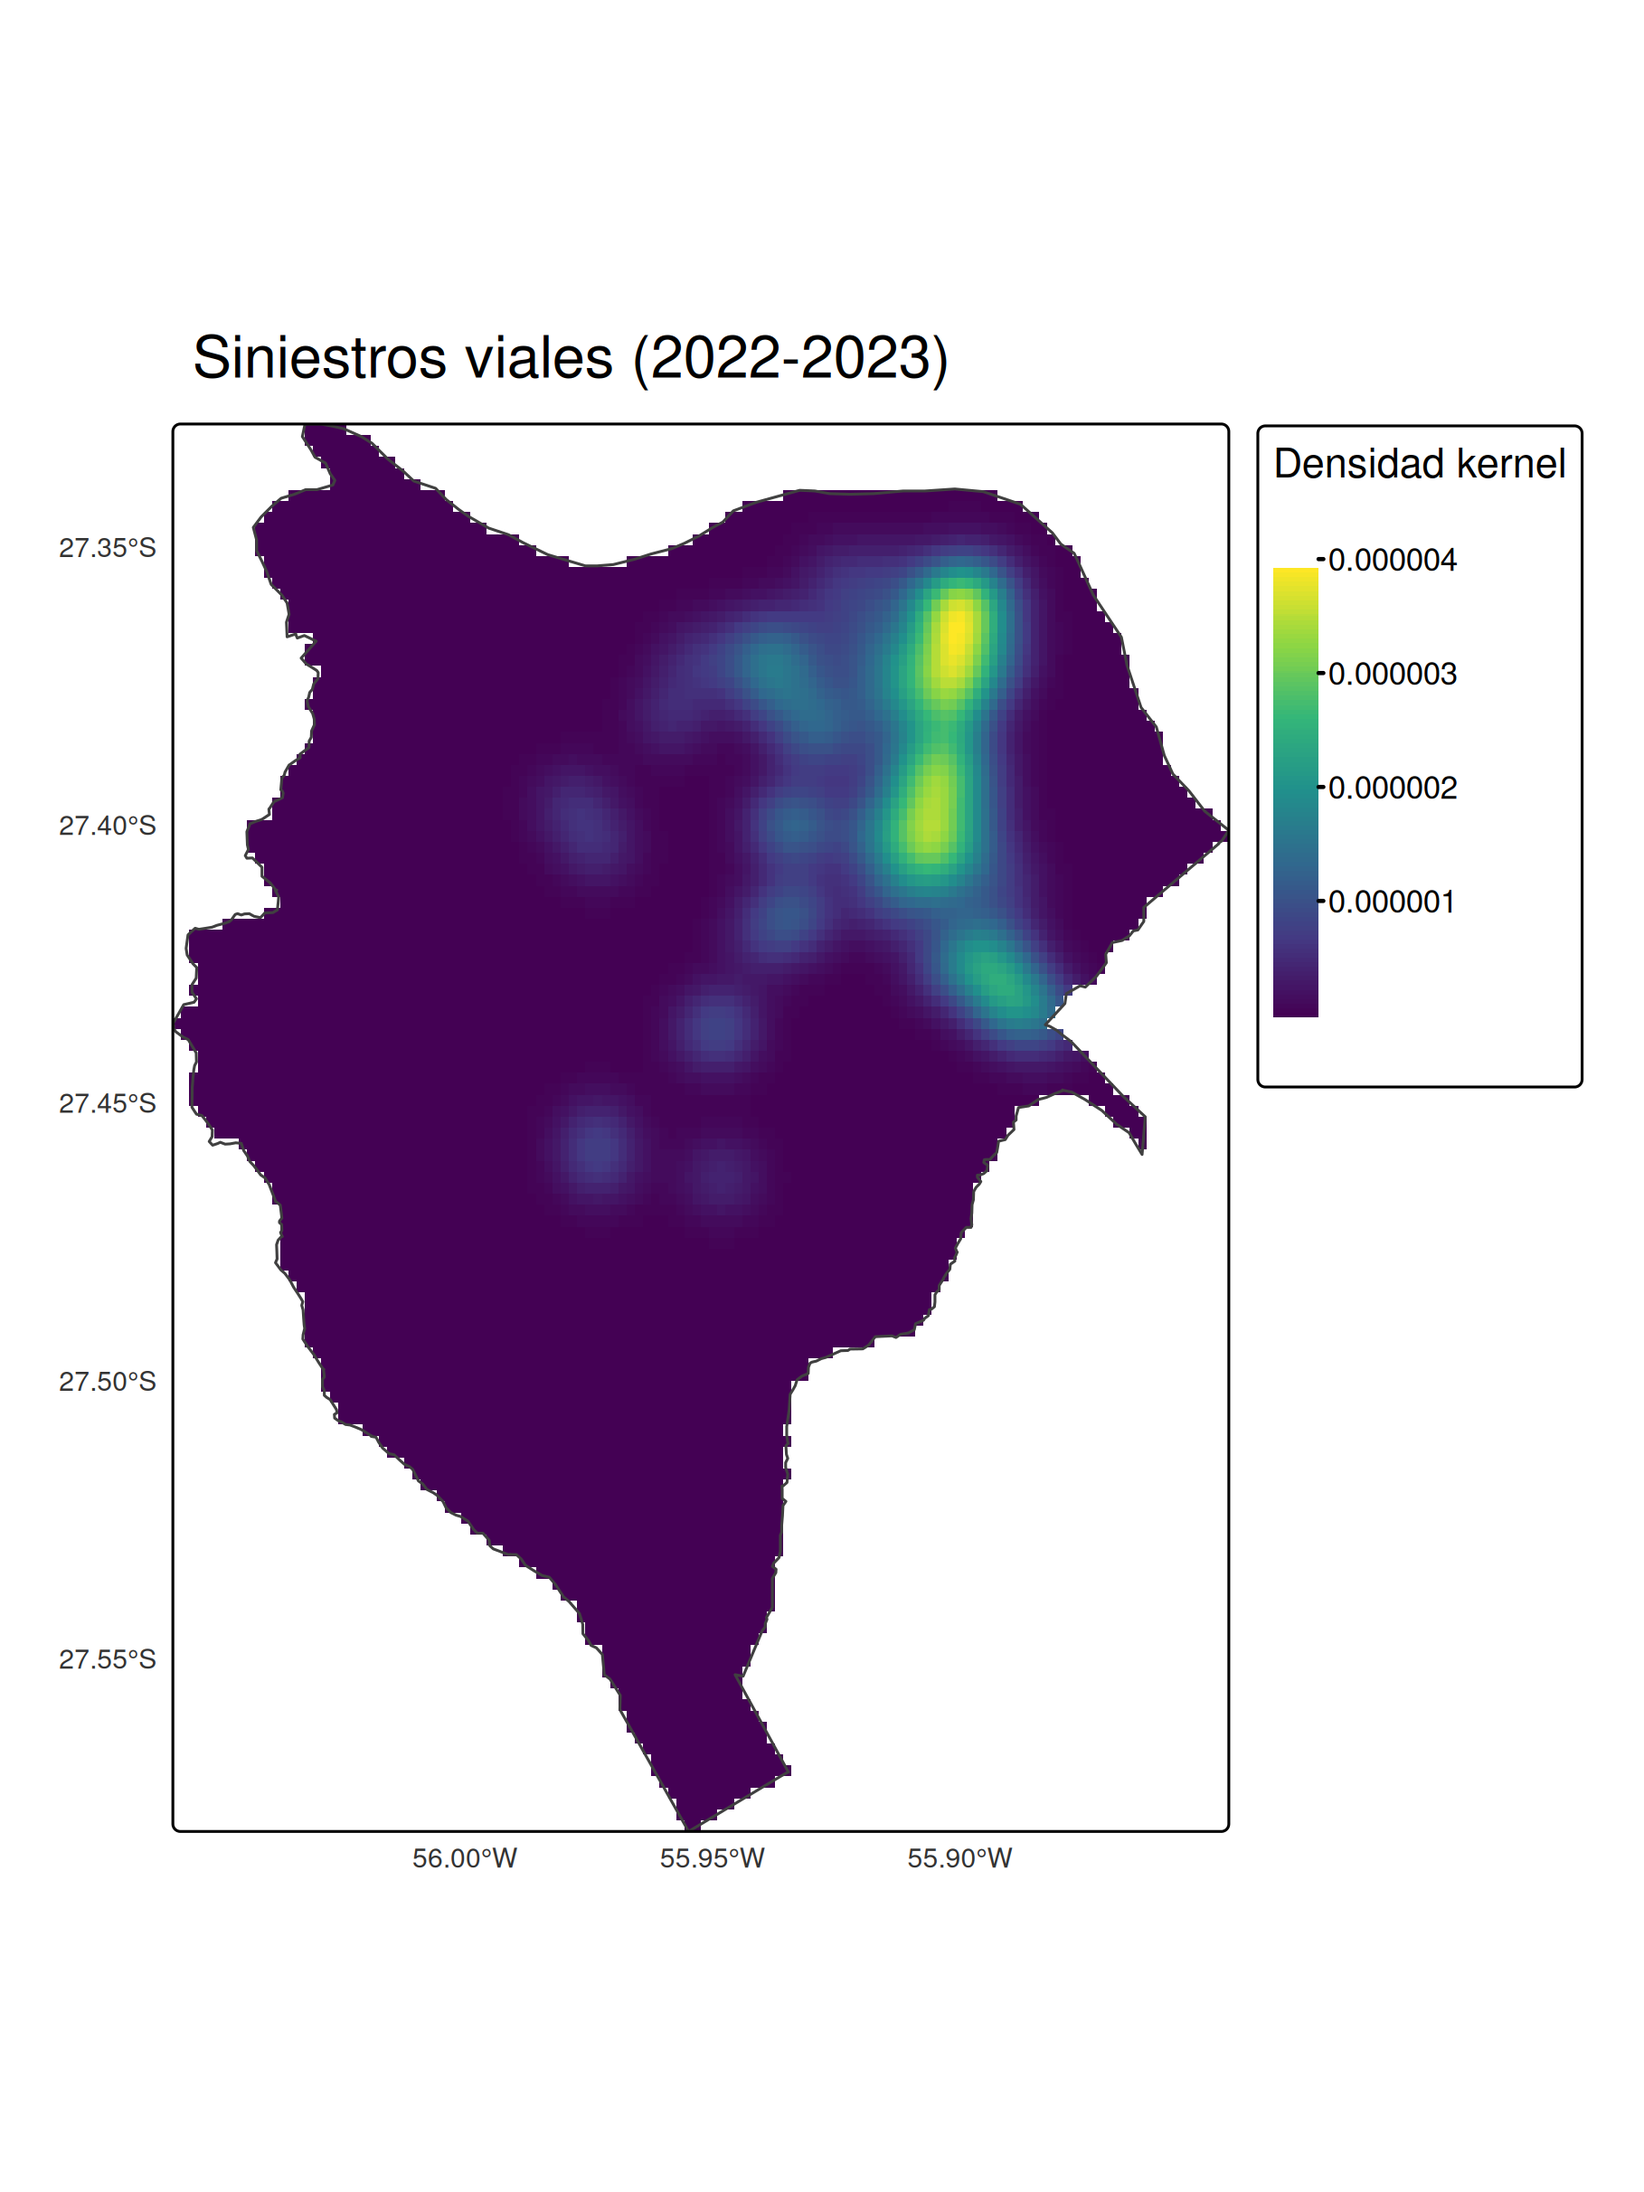
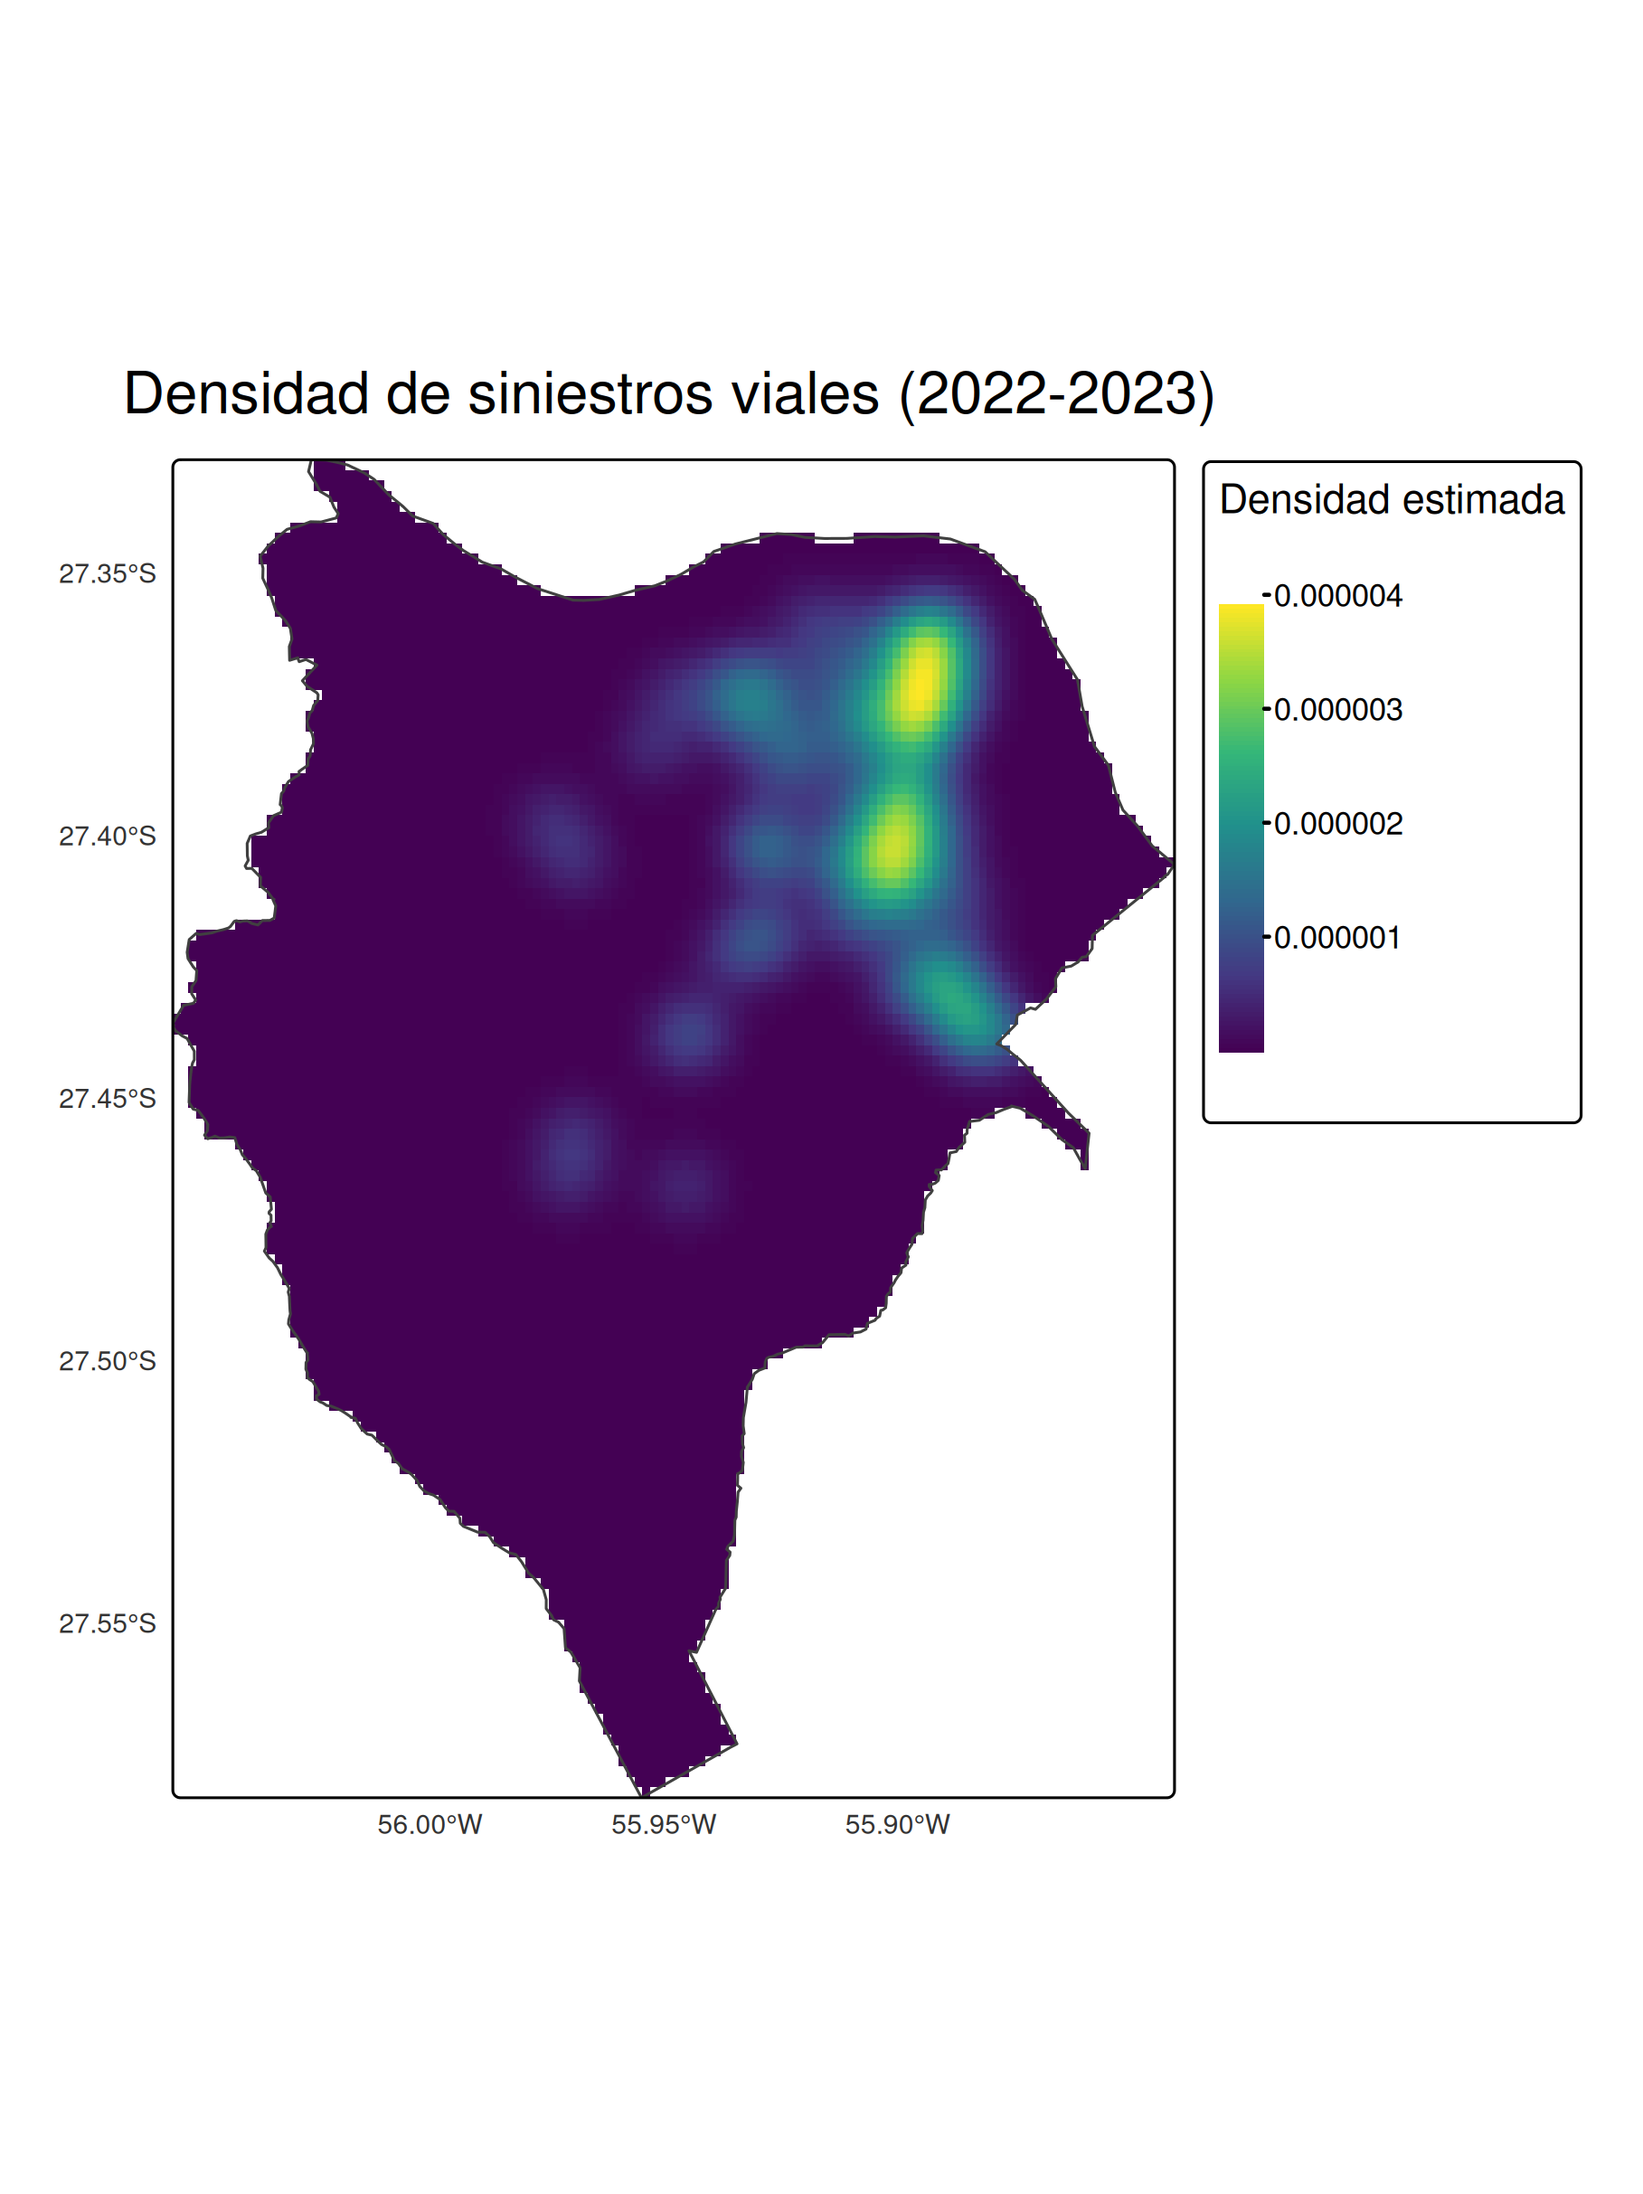
actualiza el analisis con agrupamiento y agrega info al respecto de los analisis

diff --git a/README.md b/README.md
@@ -3,7 +3,7 @@
 Repositorio creado para gestionar los análisis de caracterización de los siniestros viales ocurridos en Posadas.
 
 # Al respecto de los datos
-Los datos fueron generados por un proceso de Geocoding o Georreferenciación manual a aparitr de notícias publicadas en el diário Primera Edición, [trabajo desarrollado por Claudia Vargas](https://tusigyt.github.io/lit/proyectos/) como Proyecto de Intervención de la Tecnicatura Universitária en Sistemas de Información Geográfica y Teledetección (TUSIGyT) de la Facultad de Ciencias Forestales (FCF) de la Universidad Nacional de Misiones (UNaM).
+Los datos fueron generados por un proceso de Geocoding o Georreferenciación manual a partir de notícias publicadas en el diário Primera Edición, [trabajo desarrollado por Claudia Vargas](https://tusigyt.github.io/lit/proyectos/), como Proyecto de Intervención de la Tecnicatura Universitária en Sistemas de Información Geográfica y Teledetección (TUSIGyT) de la Facultad de Ciencias Forestales (FCF) de la Universidad Nacional de Misiones (UNaM).
 
 Más allá de la ubicación geográfica, el conjunto de datos dispone de una table de atributos con la siguientes informaciones:  
 - Fecha de publicación: Fecha de la publicación de la notícia de siniestro vial;
@@ -16,7 +16,7 @@ Más allá de la ubicación geográfica, el conjunto de datos dispone de una tab
 - Herramienta: Herramienta usada para la georeferenciación ("Geocoding" o "Manual")
 - URL de la noticia;
 
-## Otros Datos  
+## Otros datos usados  
 
 - [IDE Posadas](https://www.ide.posadas.gob.ar/):  
   - [Semaforos](https://www.ide.posadas.gob.ar/layers/ideposadas_data:geonode:Semaforos)  
@@ -25,17 +25,51 @@ Más allá de la ubicación geográfica, el conjunto de datos dispone de una tab
   - Límite Municipal 2023;  
 
 # Objetivos
-Realizar un análisis exploratório usando técnicas y estadísticas espaciales/geográficas para caracterizar los siniestro viales reportados y georreferenciados en Posadas;
+Realizar un análisis exploratório usando técnicas y estadísticas espaciales/geográficas para caracterizar los siniestro viales ocurridos en Posadas en 2022 y 2023;
 
-Algunas preguntas disparadoras y posibles análisis a usar:
-- ¿Es posible identificar corelación espacial en los siniestros viales ocurridos en Posadas? ¿A que distáncia se puede identificar dicha correlación espacial?
-  - Análisis de segunda orden (Función k-Ripley - [ver](#metodologia) )
+## Algunas preguntas disparadoras y posibles análisis a usar:
+- Los siniestros viales ocurridos en 2022 y 2023 podrían ser caracterizados como Procesos Puntuales Homogéneos (Homogeneous Point Process, en inglés)?
+
+Para ser considerado PPH, los mismos no deben presentar variación en la densidad estimada. Luego, se ha usado el estimados de densidad de kernel para testar dicha hipótesis. El estimador de densidad de kernel es un análisis de primer orden ( [ver](#metodologia) ) que busca identificar el cómo un determinado evento varia en el espaciao geográfico de estudio:
 
 ![](./figs/KernelDensity_siniestros.png)
 
+Como se puede observar, la densidad estimada de siniestros viales presenta variación, con algunas áreas con mayor valor de densidad estimada para la ocurrencia de siniestros viales, a partir de los siniestros conocidos. Con eso, podemos desconsiderar la hipótesis de PPH, por ende, seguiremos los análisis bajo el supuesto de que se trata de un fenómeno de Procesos Puntuales Inhomogéneo (Inhomogeneous Point Process, en inglés).
+
+- ¿Es posible identificar corelación espacial en los siniestros viales ocurridos en Posadas? ¿A que distáncia se puede identificar dicha correlación espacial?
+
+Para poder estimar si los siniestros viales presentan correlación espacial, tendremos como hipótesis nula, la distribución espacial completamente aleatória, modelada por una simulación Monte Carlo, con la misma densidad de eventos observados por el conjunto de datos. Como ya se ha confirmado que los siniestros se caracterizan como procesos puntuales inhomogeneos, usaremos la funciónn k-Ripley transformada para procesos puntuales inhomogeneos. Se trata de un análisis de segundo orden ( [ver](#metodologia) ).
+
 ![](./figs/Linhom_siniestros.png)
 
-- Los siniestros viales seuelen ocurrir cerca a semáforos?
+> Lectura del gráfico: 
+> - Eje vertical: valor estimado de la función k-Ripley;
+>   - Los valores menores a 0 indican tendencia a distribución regular (también conocida como tendencia de hinibición);
+>   - Los valores mayores a 0 indican distribución aglomerada;
+> - Eje horizontal: distância a la cual el valor fue estimado;
+> El área gris, representa el calculo de la función k-Ripley para los 100 processo puntuales simulados bajo supuesto de la distribución espacial completamente aleatória. 
+> El valor estimado de la función k-Ripley para los siniestros viales, línea sólida negra, varia entre positivo y negativo. Sin embargo, mientras se mantiene en el área gris, no presenta evidencias de deviación de la hipótesis nula (H0), dsitribución aleatoria, a dichas distancias. Cuando la línea negra sale del área gris, evidencia que, para dicha distancia se presenta evidencias de la tendencia de: 
+> - o correlación espacial (cuando valor > 0); 
+> - o tendencia de distribución regular (cuando valor < 0);
+
+Con el gráfico de la función k-Ripley transformada se puede percibir que hay dos tendencias de correlación espacial:
+- La primera, a muy corta distancia, cerca a 0, lo que sugiere ser un efecto de siniestros que ocurren sistematicamente en determinadas ubicaciones, y;
+- La segunda, a partir de los 300 metros y hasta casi 500 metros de distancia;
+
+Es decir: Los siniestros viales ocurridos en 2022 y 2023 presentan una estructura de correlación espacial a muy cortas distancias así como, a 300 y 500 metros de distáncia, indicando que la ocurrencia de los mismos se dió de manera estructurada en el espacio. En las demás distancias, los siniestros presentaron características de distribución aleatória, o sea, en ubicaciones casuales.
+
+Cómo el análisis de la función k-Ripley no nos informa dónde se están estructurando los siniestros viales, vamos a ocupar la distancia en la cual identificamos correlación espacial para poder realizar un análisis de agrupación de los siniestros.
+Para dicha análisis de agrupación, vamos a ocupar el algoritmo Density-based Spatial Clustering of Applications with Noise ([DBSCAN](https://en.wikipedia.org/wiki/DBSCAN) ), el cual necesita como parámetros mínimos:
+- `eps`: Distáncia mínima a partir de la cual los puntos deberán estar estar para considerarse como parte de un mismo grupo;  
+- `minPts`: Cantidad mínima de puntos para que sea definido un grupo;
+
+Como pudimos, con la función k-Ripley, identificar evidencias de correlación espacial a partir de los 300 metros, vamos a usar dicho valor para el parámetro `eps`. 
+
+![](./figs/Agrupaciones_500_5_siniestros.png)
+
+Resultado del análisis de agrupación: Se pudo identificar tres regiones donde ocurrienron al menos 5 siniestros viales y a una distáncia de al menos 500 metros.
+
+- Los siniestros viales suelen ocurrir cerca a semáforos?
   - Análisis bi-variada de segunda orden (Función k-ripley entre siniestros y [semaforos](https://www.ide.posadas.gob.ar/layers/ideposadas_data:geonode:Semaforos);
 
 ![](./figs/Linhom_siniestros_semaforos.png)
